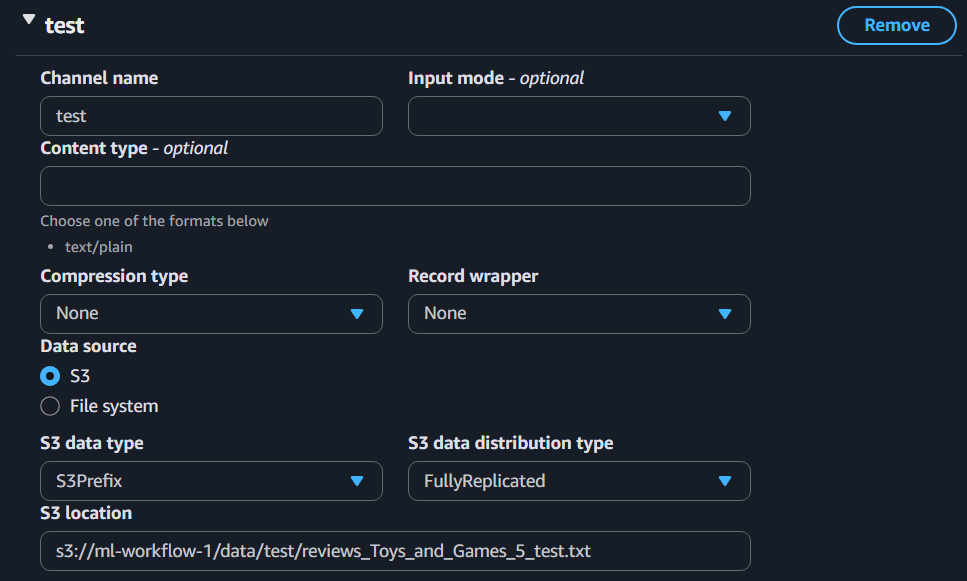
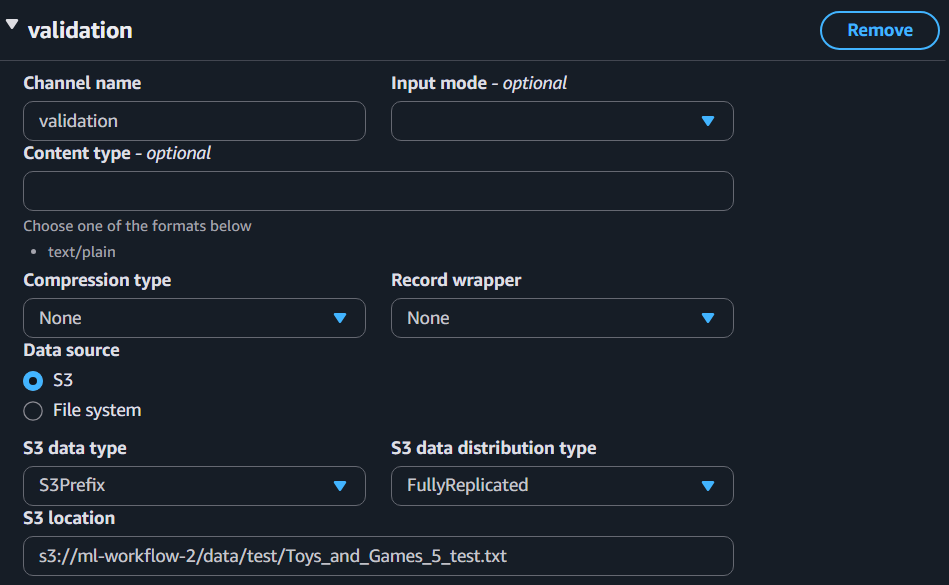
processing job state machine

diff --git a/2-ml-workflow/console-tutorial.md b/2-ml-workflow/console-tutorial.md
@@ -95,7 +95,7 @@ As seen earlier, a Lambda function is triggered through an event. It is a JSON o
 To trigger your Lambda function synchronously, you can use AWS SDK or integrate it into workflows using AWS Step Functions. But for now, you will simulate a synchronous invocation with test events, just as you did previously:
 1. Go to your S3 bucket and upload the dataset [`reviews_Musical_Instruments_5.json.zip`](../data/reviews_Musical_Instruments_5.json.zip).
 2. Modify the code of Lambda function you created earlier so that it acts as a data preprocessing script, similar to the one used in your processing jobs. Alternatively, you can upload [code.zip](./code.zip) provided to override your Lambda function's code. Simply select *Upload from* → *.zip file* and upload the file. Note that the name of the Python file containing the function handler must be `lambda_function.py`, not any name.\
-If you decide to implement your own Lambda function, remember to properly define `lambda_handler` function, as your Lambda function will only execute this function. Moreover, the code should get the S3 location of the raw dataset extracted from the `event` argument, which will be explained later, and should directly upload training set and testing set into your S3 bucket. Lastly, Lambda function restricts your file operations within the local directory `/tmp/`. Hence, all files created, downloaded, or extracted must be in this folder.
+If you decide to implement your own Lambda function, remember to properly define `lambda_handler` function, as your Lambda function will only execute this function. If needed, you can include helper functions in your code. Moreover, your code should directly download the raw dataset using its S3 location extracted from the `event` argument, which will be explained later, and should directly upload training set and testing set into your S3 bucket. These actions requires you to work with AWS SDK for Python, i.e. [`boto3`](https://boto3.amazonaws.com/v1/documentation/api/latest/index.html). Lastly, Lambda function restricts your file operations within the local directory `/tmp/`. Hence, all files created, downloaded, or extracted must be in this folder.
 <p align="center"><img src="img/upload-code.png" width="80%"></p>
 
 3. Go to *Configuration* tab, select *General configuration* on the left sidebar. Then select *Edit* on the right.
@@ -104,7 +104,7 @@ If you decide to implement your own Lambda function, remember to properly define
 4. Under *Timeout*, set it to about 5 minutes. And under *Existing role*, click on *View the role*. This will navigate you to *Identity and Access Management (IAM)* console of your Lamdba function's role.
 <p align="center"><img src="img/timeout.png"></p>
 
-5. Since your Lamdba function's role is automatically created, it doesn't have the permission to access S3. Therefore, you have to grant that permission to the role. From the role console, go to *Add permissions* → *Attach policies*.
+5. Since your Lamdba function's role is automatically created, it doesn't have the permission to access S3. Therefore, you have to grant it that permission. From the role console, go to *Add permissions* → *Attach policies*.
 <p align="center"><img src="img/add-permission.png"></p>
 
 6. Search for *AmazonS3FullAccess* and select it. Scroll down and click on *Add permissions* button.
@@ -150,15 +150,189 @@ Unlike synchronous invocation, you cannot receive a direct response message from
 Similarly, you can construct one Lambda function for a training job, one for an endpoint deployment, and one for a batch transform job. Each performs a specific step using AWS SDK. Then, you can chain them all together and form a fully automated machine learning workflow, all thanks to AWS Step Functions.
 
 ## AWS Step Functions
+### Introduction
 AWS Step Functions is a visual workflow service that helps you use AWS services to build distributed applications, automate processes, orchestrate microservices, and create ML workflows.
 
 It is based on two abstractions:
 * State machine: serverless workflow, which is a series of event-driven steps.
 * Task: a state within a workflow that represents a single unit of work performed by another AWS service.
 
-If you want to construct an ML workflow using AWS Step Functions console, it is generally easier to create a separate Lambda function for each component of the workflow and chain them together. On the other hand, directly chaining microservices of Amazon SageMaker AI requires a deeper understanding of the [Amazon States Language (ASL)](https://states-language.net/spec.html) to configure each component via console. However, you can still do this by using AWS SDKs without the need of ASL.
+Advantages:
+* Intuitive UI.
+* Easy visualization.
+* Easy isolation of failure points.
 
-Since you have already built a Lambda function for pre-processing raw dataset, you will use it as part of the workflow instead of creating a new one which initiates a processing job in Amazon SageMaker AI. In the following steps, you will use AWS SDK for Python to build desired Lambda functions. Thus, you will find this [tutorial](../1-sagemaker/sdk-tutorial.ipynb) useful.
+Disadvantages:
+* Significantly more expensive than Lambda function.
+* Dependent on proprietary Amazon State Language.
+* Not compatible with similar orchestration tools in other platforms.
 
-First of all, you need to create a role and your Lambda functions will use it to gain access to S3 and SageMaker AI:
-1. Head to AWS Lambda using the search bar and in the left navigation sidebar, select *Functions*.
+### Creating a workflow
+In AWS Step Functions console, you will directly intergrate and chain several microservices of Amazon SageMaker AI in order to construct an ML workflow. This requires a deeper understanding of the [Amazon States Language (ASL)](https://states-language.net/spec.html) to configure each component. 
+
+The Amazon States Language is a JSON-based, structured language used to define your state machine. It mostly resembles a nested dictrionary in Python. It utilizes [JSONata](https://docs.jsonata.org/overview.html) as the default query language. When a state machine execution receives JSON input from execution, it passes that data to the first state in the workflow as input. With JSONata, you can retrieve a state input from `$states.input`. If a state is successfully completed, its API response will be stored in `$states.result`. Furthermore, you can use JSONata to dynamically configure your state machine during each execution.
+<p align="center"><img src="img/vars-jsonata.png"></p>
+
+In this exercise, you will embedded JSONata expression inside a string value. The expression must start with `{%` with no leading spaces, and must end with `%}` with no trailing spaces. Improperly opening or closing the expression will result in a validation error.
+```JSON
+"{% <JSONata expression> %}"
+```
+Any JSONata functions or variables must start with the character `$`, e.g. `$states.result` or `$split($variable_1)[0]`. Moreover, because the JSONata expression is in a string value, to add a string into the expression, use the single quote `'` instead of double. Finally, to concatenate string, use the ampersand character `&`, e.g. `{% $states.input.prefix & 'train/' %}`.
+
+For more information, read [this](https://docs.aws.amazon.com/step-functions/latest/dg/transforming-data.html#writing-jsonata-expressions-in-json-strings) and [this](https://docs.aws.amazon.com/step-functions/latest/dg/workflow-variables.html).
+
+No worries, this tutorial will help you set up an ML workflow with ASL along the way:
+1. Head to Step Functions using the search bar and in the left navigation sidebar, select *State machines*.
+2. Click the *Create state machine* button.
+3. In the pop-up window, select *Create from blank*, give a unique name for your state machine, and select *Standard* for *State machine type*.
+<p align="center"><img src="img/state-machine.png"></p>
+
+4. Take a look at the workflow in the picture below. Now, use the search bar in the left sidebar and find the illustrated states and drag them onto the graph canvas to create the corresponding workflow. Rename each state as needed.
+<p align="center"><img src="img/stepfunctions-graph.png"></p>
+
+5. Click on the first state. In the *Configuration* tab, scroll down and check the option *Wait for task to complete*.
+<p align="center"><img src="img/sync.png" width="60%"></p>
+
+6. Go to the *Arguments & Output* tab, remove text in the *Arguments* field and write below text instead. You will gradually add more fields to correctly configure this state. For more information about SageMaker AI CreateProcessingJob's arguments, go [here](https://docs.aws.amazon.com/sagemaker/latest/APIReference/API_CreateProcessingJob.html).
+<p align="center"><img src="img/arg-config.png" width="60%"></p>
+
+```JSON
+{
+  "ProcessingJobName": "?",
+  "RoleArn": "?"
+}
+```
+7. Since the name for new processing job must be unique, you should not hard-code its name in the *ProcessingJobName* field. If a static name is used, the state machine will create processing job with the same name for every execution, which will cause error and disrupt the workflow. Instead, dynamically generate a unique name using JSONata expression. In the *ProcessingJobName* field, enter the leading name of your choice and concatenate it with the function `millis()`. For example, `{% 'BlazingText-' & $millis() %}`.
+
+8. In the *RoleArn* field, enter the ARN (Amazon Resource Name) of the role you created and used throughout your SageMaker AI experiments in the last tutorial. To do this, head to IAM using the search bar.
+       <p align="center"><img src="img/iam.png" width="80%"></p>
+       In the left navigation sidebar, go to *Access Management* → *Roles*. Then click on the name of the role and you will be able to see its ARN.
+       <p align="center"><img src="img/role.png"></p>
+       <p align="center"><img src="img/sagemaker-role.png"></p>
+
+9. Add the field below to set up the resources for the job. Remember to seperate it from the previous field with a comma.
+    ```JSON
+    "ProcessingResources": {
+      "ClusterConfig": {
+        "InstanceCount": 1,
+        "InstanceType": "ml.m5.large",
+        "VolumeSizeInGB": 1
+      }
+    }
+    ```
+
+10. Add the field below to set up the inputs for the job. Remember to seperate it from the previous field with a comma. This field contains a list. Just like before, your processing job will have 2 inputs: raw dataset and Python script. So, this list contains two corresponding elements.
+    ```JSON
+    "ProcessingInputs": [
+      {
+        "InputName": "input",
+        "S3Input": {
+          "S3DataType": "S3Prefix",
+          "S3InputMode": "File",
+          "S3Uri": "?",
+          "LocalPath": "?"
+        }
+      },
+      {
+        "InputName": "code",
+        "S3Input": {
+          "S3DataType": "S3Prefix",
+          "S3InputMode": "File",
+          "S3Uri": "?",
+          "LocalPath": "?"
+        }
+      }
+    ]
+    ```
+    The first element of the list is for the dataset. Provide its S3 location and local path in the corresponding subfields, *S3Uri* and *LocalPath*. Each execution of the state machine will require you to work with different dataset in different bucket. Thus, you should use JSONata expression to retrieve the S3 location of the dataset from the state input, e.g. `{% $states.input.prefix & $states.input.dataset %}`. Since this is the first state in your state machine, its input will directly be the input of state machine. Later, you will execute your state machine with an input like this:
+    ```JSON
+    {
+    "bucket": "your-bucket",
+    "prefix": "s3://your-bucket/data/",
+    "dataset": "reviews_Musical_Instruments_5.json.zip"
+    }
+    ```
+    The second element is for the Python script. Provide the S3 location and the local path in the corresponding subfields. No JSONata expression needed.
+
+11. Add the below field. As before, find and enter the registry path of scikit-learn's processing image in the *AppSpecification* field. For the second element of the *ContainerEntrypoint* field, enter the local address to your Python script, e.g. `/opt/ml/processing/input/code/<your_script_name>`. If you use the provided Python code, enter a JSONata expression in the *ContainerArguments* field, which retrieves the dataset name through state input. Otherwise, remove this subfield.
+    ```JSON
+    "AppSpecification": {
+      "ImageUri": "?",
+      "ContainerEntrypoint": [
+        "python3",
+        "?"
+      ],
+      "ContainerArguments": [
+        "?"
+      ]
+    }
+    ```
+
+12. Add the below field to set up the outputs for the job. The *Outputs* field contains a list with two items defining the configuration for the training set and the testing set. In each element, specify where the set should be uploaded in your bucket in the field *S3Uri*, and the local path where your Python script saves the set in the *LocalPath* field. Use JSONata expressions to dynamically determine the S3 output locations from the state input. 
+    ```JSON
+    "ProcessingOutputConfig": {
+      "Outputs": [
+        {
+          "OutputName": "train_set",
+          "S3Output": {
+            "S3Uri": "?",
+            "LocalPath": "?",
+            "S3UploadMode": "EndOfJob"
+          }
+        },
+        {
+          "OutputName": "test_set",
+          "S3Output": {
+            "S3Uri": "?",
+            "LocalPath": "?",
+            "S3UploadMode": "EndOfJob"
+          }
+        }
+      ]
+    }
+    ```
+13. You have done setting up all required and important arguments for the first state. But you need to define the output of this state so that it will pass the expected S3 locations of the training set and the testing set to the next state in the workflow. Jump to the *Output* field right below and enter the following:
+    ```JSON
+    {
+      "train": "?",
+      "test": "?"
+    }
+    ```
+    In each field, use JSONata to contruct S3 location from the state input. The exact object names will depend on how your Python script saves the files. If you are using the provided code, use with the following instead:
+    ```JSON
+    {
+      "train": "{% $states.input.prefix & 'train/' & $split($states.input.dataset, '.', 1)[0] & '_train.txt' %}",
+      "test": "{% $states.input.prefix & 'test/' & $split($states.input.dataset, '.', 1)[0] & '_test.txt' %}"
+    }
+    ```
+
+14. Go to the *Variables* tab and enter the text shown below to assign the bucket name extracted from this state's input to the variable `bucket`. This variable can be later referenced in subsequent states.
+<p align="center"><img src="img/variables.png" width="60%"></p>
+
+15. Click on the second state in the workflow. In the *Configuration* tab, scroll down and check the option *Wait for task to complete*.
+
+
+
+
+
+
+
+
+
+
+
+
+
+
+
+
+
+
+
+
+
+
+
+
+
+https://docs.aws.amazon.com/step-functions/latest/dg/transforming-data.html

diff --git a/1-sagemaker/console-tutorial.md b/1-sagemaker/console-tutorial.md
@@ -145,7 +145,7 @@ python3 /opt/ml/processing/input/code/hello_blaze_preprocess.py review_Toys_and_
 <p align="center"><img src="img/app_specs.png" width="60%"></p>
 
 10. In the *Output data configuration* field, enter the local path where your Python script saves the training set and the S3 location where you want SageMaker AI to upload.
-11. Click on *Add input* and do the similar process for the testing set.
+11. Click on *Add output* and do the similar process for the testing set.
 <p align="center"><img src="img/processing_output.png" width="60%"></p>
 
 12. Select *Submit* at the bottom when all set.
@@ -177,8 +177,8 @@ After you successfully pre-processed your dataset, it is time to train a model w
 8. In the *Hyperparameters* field, set *mode* to *supervised*.
 <p align="center"><img src="img/hyper_mode.png" width="60%"></p>
 
-9. In the *Input data configuration* field, enter the S3 path (S3 URI) to your training set. Since the chosen algorithm only works with one type of data, plain text, you don't have to specify the content type of your data. But if you work with other algorithms, pay attention to this in their documentation, as they may have different data format options to select.
-10. Click on *Add channel* and enter the S3 path to your testing set.
+9. In the *Input data configuration* field, enter the S3 path to your training set. Since the chosen algorithm only works with one type of data, plain text, you don't have to specify the content type of your data. But if you work with other algorithms, pay attention to this in their documentation, as they may have different data format options to select.
+10. Click on *Add channel* and enter the S3 path to your testing set. Type `validation` for the *Channel name*.
 <p align="center"><img src="img/train_set.png" width="50%"><img src="img/test_set.png" width="50%"></p>
 
 11. In the *Output data configuration* field, enter the S3 path where you want SageMaker AI to output your model artifact.
@@ -234,7 +234,7 @@ For BlazingText algorithm, the inference data requires a different structure fro
 ### Batch transform jobs
 Batch Transform is a compute job that performs inference using your trained model on large datasets. A batch transform job is ideal for large-scale predictions where low latency is not a priority. This differs from an endpoint in that endpoints service real-time, individual user requests for inference over time.
 
-To deploy a model using batch transform:
+To deploy a model with a batch transform job:
 1. Navigate to Amazon SageMaker AI.
 2. In the left navigation sidebar, go to *Inference* → *Batch transform jobs*.
 <p align="center"><img src="img/batch_job.png" width="60%"></p>
